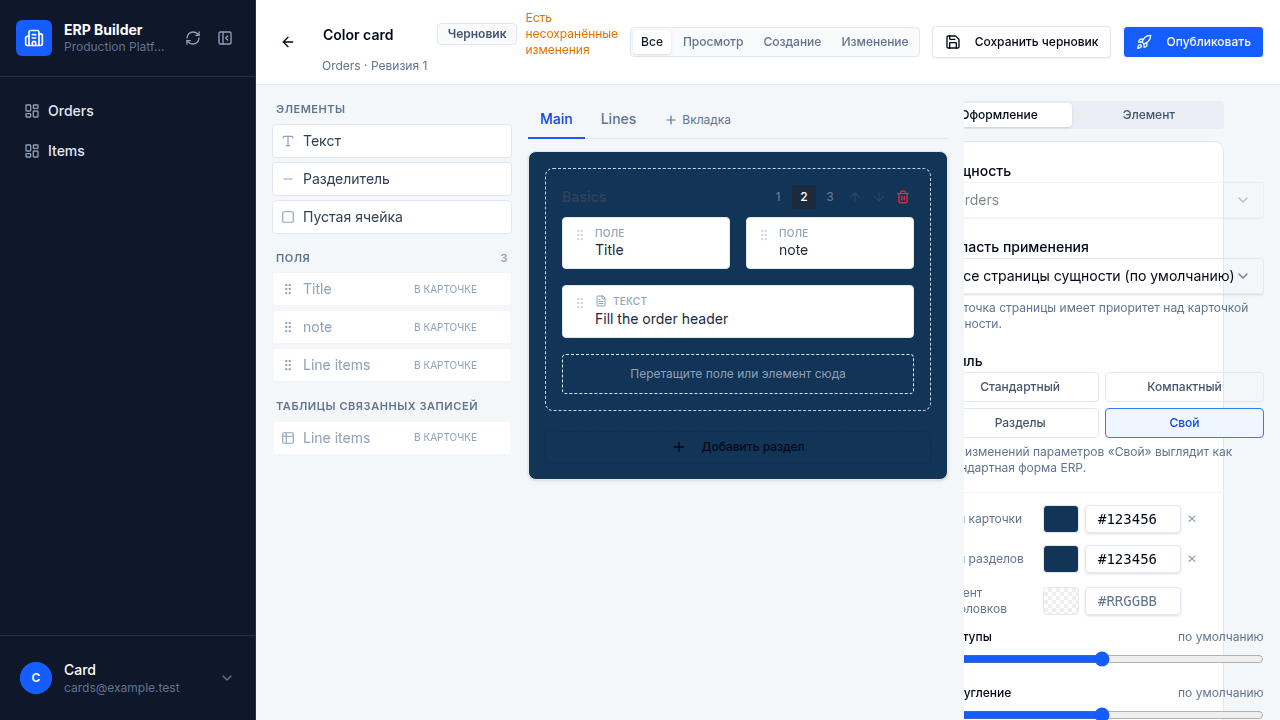
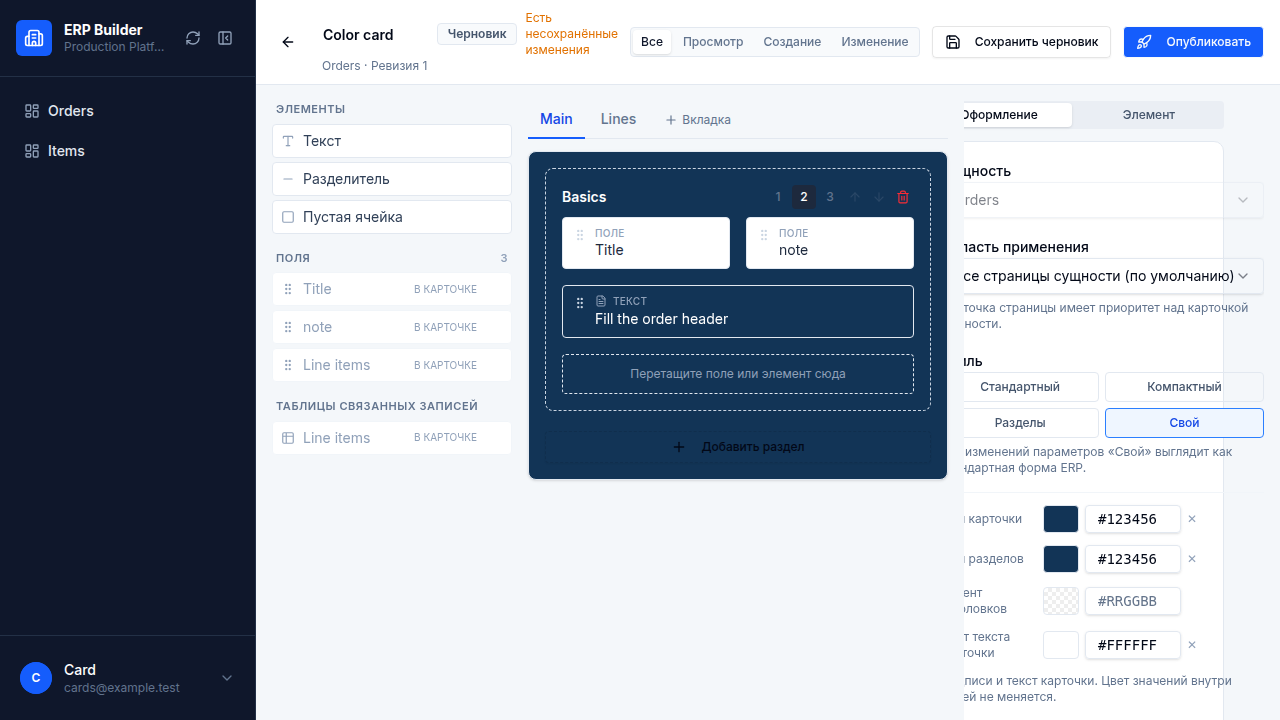
Update card builder logic and template rendering components
Replit-Commit-Author: Agent

Changed region(s): [[0.75, 0.8556, 1.0, 1.0], [0.4375, 0.3972, 0.7188, 0.4889], [0.4375, 0.2444, 0.4688, 0.3056]]

diff --git a/artifacts/erp-platform/src/pages/admin/card-templates.tsx b/artifacts/erp-platform/src/pages/admin/card-templates.tsx
@@ -776,6 +776,7 @@ function TemplateEditor({ id }: { id: number }) {
                       const missing = !!b.fieldKey && !fieldByKey.has(b.fieldKey) && fields.length > 0;
                       return (
                         <div key={b.id} draggable={!readOnly} data-testid={`editor-block-${b.id}`}
+                          style={layout.style === "custom" && (b.kind === "text" || b.kind === "divider") ? { background: "transparent" } : undefined}
                           onDragStart={e => startDrag(e, { type: "block", blockId: b.id })}
                           onDragOver={e => allowDrop(e, b.id)} onDrop={e => dropAt(e, sec.id, bi, b)}
                           onClick={() => setSelection({ type: "block", id: b.id })}
@@ -795,7 +796,7 @@ function TemplateEditor({ id }: { id: number }) {
                               {b.kind === "field" ? t("cards.kindField", "Поле") : b.kind === "relatedTable" ? t("cards.kindTable", "Таблица") : b.kind === "text" ? t("cards.kindText", "Текст") : t("cards.kindDivider", "Разделитель")}
                               {b.modes.length < 3 && <span className="normal-case text-slate-400">· {b.modes.join("/")}</span>}
                             </div>
-                            <div className={cn("truncate", empty ? "text-amber-700" : missing ? "text-red-700" : "text-slate-800", b.kind === "text" && "whitespace-pre-wrap line-clamp-2")}>
+                            <div style={layout.style === "custom" && (b.kind === "text" || b.kind === "divider") ? { color: layout.customStyle.textColor } : undefined} className={cn("truncate", empty ? "text-amber-700" : missing ? "text-red-700" : "text-slate-800", b.kind === "text" && "whitespace-pre-wrap line-clamp-2")}>
                               {blockTitle(b)}
                               {b.fieldKey && fieldByKey.get(b.fieldKey)?.isRequired && <span className="ms-0.5 text-red-500">*</span>}
                             </div>
@@ -938,7 +939,7 @@ function StylePanel({ layout, readOnly, onChange, scope }: { layout: CardLayout;
   ];
   const c = layout.customStyle;
   const setC = (patch: Partial<CardLayout["customStyle"]>) => onChange(l => ({ ...l, customStyle: { ...l.customStyle, ...patch } }));
-  const color = (key: "background" | "sectionBackground" | "accent", label: string) => (
+  const color = (key: "background" | "sectionBackground" | "accent" | "textColor", label: string) => (
     <div data-testid={`input-style-${key}`}>
       <ColorPickerControl label={label} value={c[key] ?? ""} onChange={value => setC({ [key]: value || undefined })} />
     </div>
@@ -969,6 +970,8 @@ function StylePanel({ layout, readOnly, onChange, scope }: { layout: CardLayout;
           {color("background", t("cards.styleBg", "Фон карточки"))}
           {color("sectionBackground", t("cards.styleSectionBg", "Фон разделов"))}
           {color("accent", t("cards.styleAccent", "Акцент заголовков"))}
+          {color("textColor", t("cards.styleText", "Цвет текста карточки"))}
+          <p className="text-xs text-slate-500">{t("cards.styleTextHint", "Подписи и текст карточки. Цвет значений внутри полей не меняется.")}</p>
           {range("spacing", t("cards.styleSpacing", "Отступы"), 4, 32)}
           {range("radius", t("cards.styleRadius", "Скругление"), 0, 24)}
           {range("fontSize", t("cards.styleFont", "Размер шрифта"), 12, 20)}

diff --git a/tests/e2e/card-template-ui.spec.ts b/tests/e2e/card-template-ui.spec.ts
@@ -118,10 +118,14 @@ test("builder: custom style uses the shared saved-color palette and clears overr
   await expect(page.getByTestId("editor-tab-1")).toBeVisible();
   await page.getByTestId("input-style-accent").getByRole("button").last().click();
   await expect(page.getByTestId("button-select-section-0")).not.toHaveCSS("color", "rgb(18, 52, 86)");
+  await page.getByTestId("input-style-textColor").getByRole("textbox").fill("#ffffff");
+  await page.getByTestId("input-style-textColor").getByRole("textbox").blur();
+  await expect(page.getByTestId("button-select-section-0")).toHaveCSS("color", "rgb(255, 255, 255)");
+  await expect(page.getByTestId("editor-block-blk_text").getByText("Fill the order header")).toHaveCSS("color", "rgb(255, 255, 255)");
   await page.screenshot({ path: "screenshots/card-style-live-preview.png" });
   await page.getByTestId("button-save-draft").click();
   await expect.poll(() => saved.length).toBe(1);
-  expect(saved[0].layout.customStyle).toEqual({ background: "#123456", sectionBackground: "#123456" });
+  expect(saved[0].layout.customStyle).toEqual({ background: "#123456", sectionBackground: "#123456", textColor: "#FFFFFF" });
 });
 
 test("builder: copy across entities clears bindings; publish asks before replacing the active card", async ({ page }) => {
@@ -192,7 +196,7 @@ test("runtime: tabs/columns, snapshot survives a publication, view is read-only,
   const errors: string[] = [];
   page.on("pageerror", e => errors.push(e.message));
   await auth(page);
-  let currentLayout = layout("Lines");
+  let currentLayout = { ...layout("Lines"), style: "custom", customStyle: { background: "#123456", textColor: "#ffffff" } };
   const resolves: Record<string, any>[] = [];
   const writes: string[] = [];
   const record = { id: 50, entityId: A, statusId: null, valuesJson: { title: "Order 50", note: "Rush" }, version: 4, archivedAt: null, createdAt: "2025-01-01T00:00:00Z", updatedAt: "2025-01-01T00:00:00Z" };
@@ -243,9 +247,12 @@ test("runtime: tabs/columns, snapshot survives a publication, view is read-only,
   await page.getByTestId("card-tab-tab_main").click();
   const title = page.getByTestId("form-field-title").locator("input");
   await expect(title).toBeEnabled();
+  await expect(page.getByTestId("form-field-title").locator("label")).toHaveCSS("color", "rgb(255, 255, 255)");
+  await expect(page.getByTestId("card-text-blk_text")).toHaveCSS("color", "rgb(255, 255, 255)");
+  await expect(title).not.toHaveCSS("color", "rgb(255, 255, 255)");
   await title.fill("Order 50 edited");
   const resolvesBefore = resolves.length;
-  currentLayout = layout("Renamed after publish");
+  currentLayout = { ...currentLayout, tabs: layout("Renamed after publish").tabs };
   await page.getByTestId("card-tab-tab_lines").click();
   await page.getByTestId("card-tab-tab_main").click();
   await expect(page.getByTestId("card-tab-tab_lines")).toHaveText("Lines");

diff --git a/artifacts/erp-platform/src/components/CardLayoutView.tsx b/artifacts/erp-platform/src/components/CardLayoutView.tsx
@@ -112,7 +112,7 @@ export function CardTextBlock({ block }: { block: CardBlock }) {
   const ml = useML();
   const text = ml(block.text);
   if (!text) return null;
-  return <p data-testid={`card-text-${block.id}`} className="whitespace-pre-wrap break-words text-sm text-slate-600" style={{ textAlign: "start" }}>{text}</p>;
+  return <p data-testid={`card-text-${block.id}`} className="whitespace-pre-wrap break-words text-sm text-slate-600" style={{ textAlign: "start", color: "var(--card-text, #475569)" }}>{text}</p>;
 }
 
 export function CardDividerBlock({ block }: { block: CardBlock }) {
@@ -120,7 +120,7 @@ export function CardDividerBlock({ block }: { block: CardBlock }) {
   const label = ml(block.label);
   return label ? (
     <div className="flex items-center gap-3 py-1" data-testid={`card-divider-${block.id}`}>
-      <span className="text-xs font-medium uppercase tracking-wide text-slate-400">{label}</span>
+      <span className="text-xs font-medium uppercase tracking-wide text-slate-400" style={{ color: "var(--card-text, #94a3b8)" }}>{label}</span>
       <span className="h-px flex-1 bg-slate-200" />
     </div>
   ) : <hr className="my-1 border-slate-200" data-testid={`card-divider-${block.id}`} />;

diff --git a/artifacts/erp-platform/src/lib/cardLayout.ts b/artifacts/erp-platform/src/lib/cardLayout.ts
@@ -25,6 +25,7 @@ export interface CardCustomStyle {
   background?: string;
   sectionBackground?: string;
   accent?: string;
+  textColor?: string;
   spacing?: number;
   radius?: number;
   fontSize?: number;
@@ -83,7 +84,7 @@ function parseBlock(v: unknown): CardBlock | null {
 function parseCustomStyle(v: unknown): CardCustomStyle {
   if (!isObj(v)) return {};
   const out: CardCustomStyle = {};
-  for (const k of ["background", "sectionBackground", "accent"] as const) {
+  for (const k of ["background", "sectionBackground", "accent", "textColor"] as const) {
     const c = v[k];
     if (typeof c === "string" && HEX.test(c)) out[k] = c;
   }
@@ -279,6 +280,7 @@ export function cardStyleVars(layout: CardLayout): Record<string, string> {
   if (c.background) vars["--card-bg"] = c.background;
   if (c.sectionBackground) vars["--card-section-bg"] = c.sectionBackground;
   if (c.accent) vars["--card-accent"] = c.accent;
+  if (c.textColor) vars["--card-text"] = c.textColor;
   if (c.spacing != null) vars["--card-gap"] = `${c.spacing}px`;
   if (c.radius != null) vars["--card-radius"] = `${c.radius}px`;
   if (c.fontSize != null) vars["--card-font"] = `${c.fontSize}px`;

diff --git a/tests/e2e/card-template-api.spec.ts b/tests/e2e/card-template-api.spec.ts
@@ -60,6 +60,9 @@ test("card registry: scope inheritance, draft validation, permission gates and a
       expect(r.status()).toBe(201); return r.json();
     };
     expect((await api("", { name: "Unsafe style", entityId: entity.id, layout: { ...layout, style: "custom", customStyle: { background: "url(https://example.invalid)" } } })).status()).toBe(400);
+    const colored = await create("White text", null, { ...layout, style: "custom", customStyle: { textColor: "#ffffff" } });
+    expect(colored.layout.customStyle.textColor).toBe("#ffffff");
+    expect((await api("", { name: "Unsafe text color", entityId: entity.id, layout: { ...layout, style: "custom", customStyle: { textColor: "red;display:none" } } })).status()).toBe(400);
     const resolve = async (pageId?: number, headers = adminHeaders) => {
       const r = await api("/resolve", { entityId: entity.id, pageId, mode: "view" }, "POST", headers);
       expect(r.status()).toBe(200); return (await r.json()).template;

diff --git a/artifacts/erp-platform/src/lib/cardAppearance.ts b/artifacts/erp-platform/src/lib/cardAppearance.ts
@@ -24,7 +24,7 @@ export function cardAppearance(layout: CardLayout): Record<"root" | "section" | 
       padding: custom.sectionBackground || custom.border || custom.shadow ? custom.spacing ?? 16 : undefined,
     } : {},
     heading: {
-      color: custom.accent,
+      color: custom.accent ?? custom.textColor,
       ...(compact ? { fontSize: 12, textTransform: "uppercase", letterSpacing: "0.025em" } : {}),
     },
     grid: { columnGap: custom.spacing ?? (compact ? 12 : 16), rowGap: custom.spacing ?? (compact ? 8 : 16) },

diff --git a/lib/db/src/schema/card-templates.ts b/lib/db/src/schema/card-templates.ts
@@ -27,6 +27,7 @@ export const cardLayoutSchema = z.object({
     background: z.string().regex(/^#[0-9a-fA-F]{6}$/).optional(),
     sectionBackground: z.string().regex(/^#[0-9a-fA-F]{6}$/).optional(),
     accent: z.string().regex(/^#[0-9a-fA-F]{6}$/).optional(),
+    textColor: z.string().regex(/^#[0-9a-fA-F]{6}$/).optional(),
     spacing: z.number().int().min(4).max(32).optional(),
     radius: z.number().int().min(0).max(24).optional(),
     fontSize: z.number().int().min(12).max(20).optional(),

diff --git a/artifacts/erp-platform/src/components/EntityRecords.tsx b/artifacts/erp-platform/src/components/EntityRecords.tsx
@@ -11160,7 +11160,7 @@ function RecordFormBody({
     const dep = depInfo(field);
     return (
       <div key={field.id} className="min-w-0 space-y-1.5" data-testid={`form-field-${field.fieldKey}`}>
-        <Label>
+        <Label style={cardLayout?.style === "custom" ? { color: cardLayout.customStyle.textColor } : undefined}>
           {opts.label || ml(field.nameJson)}
           {field.isRequired && <span className="text-red-500 ml-0.5">*</span>}
           {(readOnly || relLocked) && (
